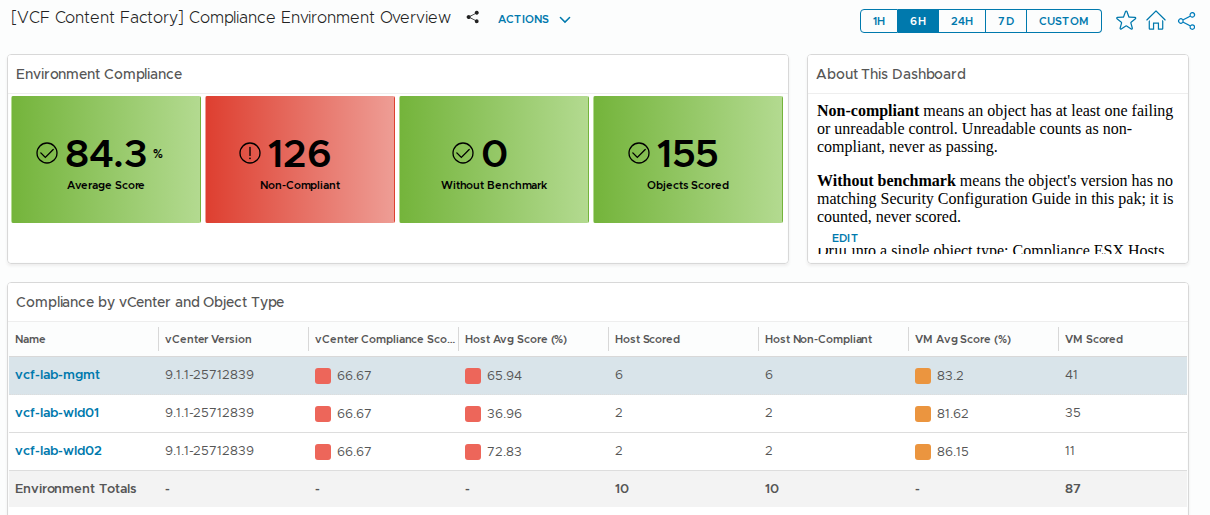
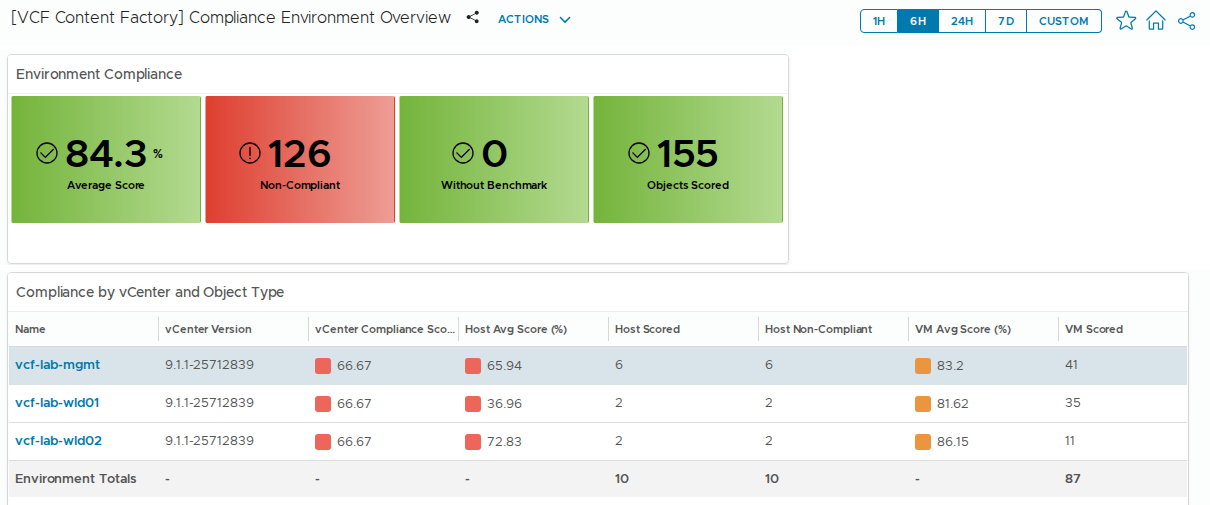
docs: review fixes: tested TLS guidance, per-feature vCenter privileges, 9.x menu paths, known issues
- TLS: say what works today (Allow Insecure for private-CA vCenters,
  address vCenter by its certificate name, see #8); drop the unproven
  import-the-CA advice until the accept-certificate hook ships.
- Permissions: esxcli host checks likely need Host > CIM > CIM
  interaction (documented by VMware, unproven with a scoped account);
  Read-only statements made conditional on the appliance setting.
- Menu paths verified on VCF Ops 9.x: Administration > Integrations >
  Repository / Accounts.
- README: Known issues (#15, #30, #31, #32); score claims qualified;
  links to REFERENCE.md and the inventory tree; hero image no longer
  shows the #34 overlap.
- data-reference.md: UI field names, no lab-specific notes.
- building.md: working curl instructions, in-factory build command,
  list formatting.
- REFERENCE.md points at docs/data-reference.md.

diff --git a/docs/installing.md b/docs/installing.md
@@ -8,7 +8,8 @@
   on **TCP 443** (vSphere SOAP / vim25 and the vCenter VAMI REST
   endpoints).
 - A **vCenter account** for the adapter to authenticate with (vCenter SSO
-  credentials). The account needs **read-only** access — the adapter only
+  credentials). With **Read vCenter appliance settings** off (the
+  default) it needs read access only; see Permissions Required. The adapter only
   reads configuration; it performs no writes or remediation.
 - One or more **compliance benchmark profiles**. The pack bundles the
   VMware Security Configuration Guide (SCG) 6.7, 7.0, 8.0, 9.0, and 9.1
@@ -34,7 +35,7 @@ What the vCenter account needs depends on that one setting:
 
 | Read vCenter appliance settings | vCenter account needs |
 |---|---|
-| Off (default) | The built-in **Read-only** role at the vCenter root, propagated to children. This covers the inventory and every host, VM, cluster and switch read. The appliance controls are reported for manual review. |
+| Off (default) | The built-in **Read-only** role at the vCenter root, propagated to children, for the inventory and the VM, cluster and switch reads. The host checks that run esxcli through vCenter (SSH, shell, secure boot, TPM, log settings) most likely also need **Host > CIM > CIM interaction** on the hosts (or a folder or cluster above them): this is the privilege VMware documents for esxcli over vCenter, but it has only been proven with a full administrator account so far. Without it those controls read as unreadable, never as passing. The appliance controls are reported for manual review. |
 | On | The above, **plus** membership of the vsphere.local SSO group `SystemConfiguration.Administrators`. vCenter has no read-only role for the appliance API, and this group can also change appliance settings. The pack itself only reads. |
 
 No remediation privileges are ever required: the pack writes nothing to
@@ -65,19 +66,25 @@ The collector log says which one is in use when the adapter starts.
 The Suite API push to VCF Operations is **ambient** (local, on the
 collector) and requires no additional outbound network configuration.
 
-## TLS to vCenter — certificate trust
+## TLS to vCenter: certificate trust
 
 Since build 50 the adapter **validates the vCenter certificate against the
-platform trust store by default** (strict TLS). You have two options:
+platform trust store by default** (strict TLS). Click **Validate
+Connection** with `allowInsecure` left at its default:
 
-1. **Recommended — import the vCenter certificate** into the VCF
-   Operations platform trust store so the default strict-TLS path
-   succeeds. Leave `allowInsecure` unset (or `false`).
-2. **Opt out — set `allowInsecure=true`** on the adapter instance to
-   disable certificate validation (trust-all). Only the literal string
-   `true` opts in; any other value, blank, or absent keeps strict
-   validation. The adapter logs a WARN at configure time when
-   `allowInsecure=true`.
+1. **If validation succeeds**, the certificate is already trusted.
+   Nothing more to do.
+2. **If it fails with a certificate error** (for example
+   `certificate_unknown` or "Unable to construct a valid chain"), set
+   `allowInsecure=true` for now. Importing the CA under Fleet Management >
+   Certificates has not been shown to help, and the Validate Connection
+   dialog does not yet offer to accept the certificate (framework work in
+   progress). `allowInsecure=true` disables certificate validation
+   (trust-all) for this adapter instance. Only the literal string `true`
+   opts in; any other value, blank, or absent keeps strict validation.
+   The adapter logs a WARN at configure time when it is set.
+
+Either way, enter vCenter by the name on its certificate, not its IP.
 
 > **Upgrade note:** an instance pointed at a vCenter whose certificate is
 > not in the platform trust store must either import the certificate or
@@ -97,18 +104,19 @@ for:
 | Custom Profile CSV Path (required if profile is Custom) | `custom_profile_path` | No | — | Filesystem path on the collector to an SCG-format CSV. Required only when the profile is `Custom`. |
 | Read vCenter appliance settings | `read_appliance_settings` | No | false | Off: the vCenter appliance (VAMI) controls are manual review. On: they are read and scored; the account must be in the vsphere.local SSO group `SystemConfiguration.Administrators`, which also grants appliance write access (there is no read-only appliance role). Instances created before build 74 have no stored value and use the default. |
 | Allow Insecure SSL (true to disable cert validation; default false = validate against platform trust store) | `allowInsecure` | No | false | `true` disables vCenter certificate validation. See TLS section above. |
-| Username | `username` | Yes | — | vCenter account (SSO). Read-only access. |
+| Username | `username` | Yes | — | vCenter account (SSO). Privileges depend on Read vCenter appliance settings; see Permissions Required. |
 | Password | `password` | Yes | — | vCenter account password (masked). |
 
 ## Step-by-Step Installation
 
-1. Install the `.pak` file via **Administration > Solutions > Add**.
-2. After installation, navigate to **Data Sources > Integrations > Accounts**.
+1. Install the `.pak` file via **Administration > Integrations > Repository > Add**.
+2. After installation, open **Administration > Integrations > Accounts**.
 3. Click **Add Account** and select **VCF Content Factory Compliance**.
 4. Fill in the configuration fields above. Choose a bundled profile, or
    `Custom` with a CSV path staged on the collector.
-5. Resolve TLS: import the vCenter certificate (recommended) or set
-   `allowInsecure=true`.
+5. Resolve TLS: for a private-CA or self-signed vCenter, set
+   `allowInsecure=true` (see the TLS section). Enter vCenter by the name
+   on its certificate, not its IP.
 6. Click **Validate Connection**, then **Add**.
 7. On the first collection cycle the adapter discovers its Compliance
    World and begins pushing results onto the existing VMWARE hosts, VMs,
@@ -119,23 +127,23 @@ for:
    Compliance Objects Scored, Compliance Non-Compliant Objects, Compliance
    Objects Without Benchmark and Compliance Average Score. Without this
    the Environment Overview's score tiles and trend stay empty. Whether
-   the pak import already enables them is unconfirmed (to be checked at
-   the devel install); check and enable if needed.
+   the pak import already enables them is unconfirmed; check and enable
+   if needed.
 9. Open **[VCF Content Factory] Compliance Environment Overview**. The
    four bundled dashboards:
 
 | Dashboard | What it is for |
 |---|---|
 | [VCF Content Factory] Compliance Environment Overview | The landing page: environment score, non-compliant objects and objects without a benchmark, compliance by vCenter and object type, objects per SCG version, the score trend, and open compliance alerts. |
-| [VCF Content Factory] Compliance ESX Hosts | Pick a scope (vSphere World or one vCenter), see its hosts worst first with score and applied SCG, select a host to see its failing controls and their runbooks. |
+| [VCF Content Factory] Compliance ESX Hosts | Pick a scope (vSphere World or one vCenter), see its hosts worst first with score and applied SCG, select a host to see its failing controls and their runbooks (that panel is currently empty, issue #30). |
 | [VCF Content Factory] Compliance VMs | The same flow for VMs, built for thousands of objects (sorted list and totals, no heatmap). |
 | [VCF Content Factory] Compliance vCenter & Networking | One page for the low-count kinds: vCenter, cluster, distributed switch and distributed portgroup lists, worst first, with the selected object's failing controls. |
 
 ## Troubleshooting
 
 - **vCenter SOAP fails with a TLS validation error** — the vCenter
-  certificate is not trusted. Import it into the platform trust store, or
-  set `allowInsecure=true`. See the TLS section.
+  certificate is not trusted. Set `allowInsecure=true` for now. See the
+  TLS section.
 - **"Compliance data not collected" alert, or a host scoring 0** (build
   63): the adapter could not read some or all of the object's settings,
   and unreadable settings count as failing. A disconnected or

diff --git a/README.md b/README.md
@@ -17,8 +17,10 @@ The pack only reads. It never changes a setting.
 
 ## What it does for you
 
-**Puts a score on everything you already monitor.** Every host, VM,
-vCenter, cluster, switch and portgroup gets a score from 0 to 100. Open
+**Puts a score on everything you already monitor.** Hosts, VMs,
+vCenters, vSAN clusters, switches and portgroups each get a score from 0
+to 100 (an object with no guide for its version, or a cluster without
+vSAN, has nothing to score and shows none). Open
 any of them in VCF Operations, go to All Metrics, then VCF-CF Compliance,
 and you'll see each control with the value the SCG expects next to the
 value that's actually set. You don't have to learn a separate object tree
@@ -42,7 +44,8 @@ first.
 because of permissions, connectivity or an unsupported read method, that
 setting counts against the score instead of being quietly treated as
 fine. A "Compliance data not collected" alert tells you which object is
-affected and what to look at. A missing reading never shows up as a pass.
+affected and what to look at. (One known gap: a setting that is simply
+absent is currently skipped rather than failed; see Known issues.)
 
 ## The dashboards
 
@@ -53,7 +56,7 @@ with three vCenters.
 objects are non-compliant, how many have no guide for their version, and
 how each vCenter is doing broken down by object type. Further down it
 shows how many objects are on each SCG version, the score trend and the
-open compliance alerts.
+open compliance alerts (both of those have open bugs; see Known issues).
 
 **ESX Hosts** starts with a scope. Pick a vCenter, or all of vSphere,
 and its hosts are listed worst first with their version, the guide
@@ -75,13 +78,18 @@ one page: vCenter, clusters, distributed switches and portgroups.
 
 1. Download the latest `.pak` from this repo's
    [Releases](https://github.com/sentania-labs/vcf-content-factory-sdk-compliance/releases).
-2. In VCF Operations, install it from **Administration > Solutions > Add**.
+2. In VCF Operations, install it from **Administration > Integrations >
+   Repository > Add**.
 3. Add an account for **VCF Content Factory Compliance** under
-   **Data Sources > Integrations > Accounts**. Give it your vCenter
-   address and a vCenter account with read access, and leave the
-   compliance profile at `Auto (by version)`.
-4. Sort out the vCenter certificate. Either trust it in VCF Operations
-   (recommended) or turn on Allow Insecure SSL.
+   **Administration > Integrations > Accounts > Add**. Give it your
+   vCenter address, using the name on the vCenter's certificate rather
+   than its IP, and a vCenter account with read access (see
+   [installing.md](docs/installing.md) for the exact privileges). Leave
+   the compliance profile at `Auto (by version)`.
+4. Click **Validate Connection**. If it fails with a certificate error
+   (common with a private CA or a self-signed vCenter certificate), set
+   **Allow Insecure SSL** to `true` for now. A version that lets you
+   accept the certificate from that dialog instead is in progress.
 5. Enable the four compliance super metrics in the policy that applies to
    vSphere World. The overview's score tiles and trend use them.
 6. Wait. The pack collects once an hour, and the per-control alerts need
@@ -109,7 +117,29 @@ The full walkthrough, with permissions, ports and troubleshooting, is in
   `profiles/UNAUDITED_CONTROLS.md`.
 - **Upgrades keep your settings.** An existing account keeps the
   compliance profile it was set to, even if a new version changes the
-  default.
+  default. An account from before version-aware scoring with no stored
+  profile keeps scoring against SCG 8.0 until you set it to
+  `Auto (by version)`.
+
+## Known issues
+
+- [#30](https://github.com/sentania-labs/vcf-content-factory-sdk-compliance/issues/30):
+  the "Failing Controls on Selected ..." panels on the ESX Hosts, VMs and
+  vCenter & Networking dashboards are empty. Until it's fixed, open the
+  object and look under All Metrics, VCF-CF Compliance.
+- [#31](https://github.com/sentania-labs/vcf-content-factory-sdk-compliance/issues/31):
+  the Open Compliance Alerts widget on the overview is empty. The alerts
+  themselves are raised; see them in the Alerts list.
+- [#32](https://github.com/sentania-labs/vcf-content-factory-sdk-compliance/issues/32):
+  the Objects by SCG Version table only shows the 6.7, 7.0 and 8.0
+  columns.
+- [#15](https://github.com/sentania-labs/vcf-content-factory-sdk-compliance/issues/15):
+  a few VM settings that are absent (never set) are skipped instead of
+  being checked against the guide's default, which can flatter VM
+  scores.
+
+All open issues are on the
+[issue list](https://github.com/sentania-labs/vcf-content-factory-sdk-compliance/issues).
 
 ## More detail
 
@@ -119,6 +149,9 @@ The full walkthrough, with permissions, ports and troubleshooting, is in
   picked, the full list of metrics and properties, and the alert
   definitions.
 - [Installing and configuring](docs/installing.md)
+- [Generated reference](REFERENCE.md) and the
+  [inventory tree](docs/inventory-tree.md) (the pack's own object types
+  and settings, generated from `describe.xml`)
 - [Building from source](docs/building.md)
 - [Custom profile format](CANONICAL_SCHEMA.md)
 - [Changelog](CHANGELOG.md)

diff --git a/docs/data-reference.md b/docs/data-reference.md
@@ -9,20 +9,18 @@ inside see [overview.md](overview.md).
 
 | Field | Required | Default | Description |
 |---|---|---|---|
-| vCenter Host | Yes | - | vCenter FQDN or IP |
+| vCenter Host / IP | Yes | - | vCenter FQDN or IP |
 | Username | Yes | - | vCenter SSO credentials |
 | Password | Yes | - | vCenter SSO credentials |
-| Benchmark Profile | Yes | Auto (by version) | Auto (by version), VMware_SCG_6.7, VMware_SCG_7.0, VMware_SCG_8.0, VMware_SCG_9.0, VMware_SCG_9.1, or Custom |
-| Custom Profile Path | No | - | Filesystem path to CSV if Custom |
+| Compliance Profile | Yes | Auto (by version) | Auto (by version), VMware_SCG_6.7, VMware_SCG_7.0, VMware_SCG_8.0, VMware_SCG_9.0, VMware_SCG_9.1, or Custom |
+| Custom Profile CSV Path | No | - | Filesystem path to CSV if Custom |
 | Allow Insecure SSL | No | false | Accept self-signed certificates |
 | Read vCenter appliance settings | No | false | Read the vCenter appliance (VAMI) settings (SSH, NTP, syslog, TLS profile, root password expiry, FIPS). Off: those controls are reported for manual review. On: needs the collection account in the vsphere.local SSO group `SystemConfiguration.Administrators`, which also grants appliance write access (no read-only appliance role exists) |
 
 **Existing instances keep their stored profile on upgrade.** VCF Ops
 stores the configured value on each adapter instance, and a pak upgrade
-does not rewrite it (the new default applies to new instances only). The
-devel instances, for example, are stored as fixed `VMware_SCG_9.1` and keep
-scoring every object against SCG 9.1 until someone edits them to
-`Auto (by version)`. An instance with no stored value keeps the pre-v3
+does not rewrite it (the new default applies to new instances only). An instance stored as a fixed `VMware_SCG_9.1`, for example, keeps scoring
+every object against SCG 9.1 until someone edits it to `Auto (by version)`. An instance with no stored value keeps the pre-v3
 fallback, SCG 8.0.
 
 ## Benchmark selection
@@ -132,7 +130,7 @@ The pak installs four dashboards (plus their eight views):
 | Dashboard | What it is for |
 |---|---|
 | [VCF Content Factory] Compliance Environment Overview | The landing page: environment score, non-compliant objects and objects without a benchmark, compliance by vCenter and object type, objects per SCG version, the score trend, and open compliance alerts. |
-| [VCF Content Factory] Compliance ESX Hosts | Pick a scope (vSphere World or one vCenter), see its hosts worst first with score and applied SCG, select a host to see its failing controls and their runbooks. |
+| [VCF Content Factory] Compliance ESX Hosts | Pick a scope (vSphere World or one vCenter), see its hosts worst first with score and applied SCG, select a host to see its failing controls and their runbooks (that panel is currently empty, issue #30). |
 | [VCF Content Factory] Compliance VMs | The same flow for VMs, built for thousands of objects (sorted list and totals, no heatmap). |
 | [VCF Content Factory] Compliance vCenter & Networking | One page for the low-count kinds: vCenter, cluster, distributed switch and distributed portgroup lists, worst first, with the selected object's failing controls. |
 
@@ -144,8 +142,7 @@ policy active on vSphere World** (in the policy editor, Metrics and
 Properties, filter on "Compliance"; the exact menu path differs between
 Ops 9.0 and 9.1),
 or those tiles and the trend stay empty. Whether the pak import enables
-them automatically is **unconfirmed**; it will be checked at the devel
-install. The other widgets read adapter data directly and need no
+them automatically is **unconfirmed**; check and enable if needed. The other widgets read adapter data directly and need no
 enablement. Compliance Average Score shows no data until the first v3
 collection cycle has scored something.
 

diff --git a/docs/building.md b/docs/building.md
@@ -31,8 +31,11 @@ Then, from the root of this repo:
 gh release download sdk-buildkit-v1 \
   --repo sentania-labs/vcf-content-factory \
   --pattern 'sdk-buildkit-*.tgz'
-# No gh? The asset is public: fetch it with curl instead:
-#   curl -sL https://github.com/sentania-labs/vcf-content-factory/releases/download/sdk-buildkit-v1/sdk-buildkit-v1.tgz -o sdk-buildkit-v1.tgz
+# No gh? The asset is public. Its file name carries the full version
+# (for example sdk-buildkit-1.0.10.tgz); look it up on the release page
+#   https://github.com/sentania-labs/vcf-content-factory/releases/tag/sdk-buildkit-v1
+# and fetch it with curl:
+#   curl -sLO https://github.com/sentania-labs/vcf-content-factory/releases/download/sdk-buildkit-v1/<asset-file-name>
 tar xzf sdk-buildkit-*.tgz
 
 # 2. Point the kit at your SDK jar and build
@@ -48,22 +51,26 @@ building paks.
 
 **Dev builds vs releases.** Anything you build this way is a *dev
 build*. The **official** artifact for this repo is the one its own CI
-builds and attaches to a GitHub Release when a `v*` tag is pushed -
-deterministic, no developer machine in the path.
+builds and attaches to a GitHub Release when a `v*` tag is pushed:
+deterministic, with no developer machine in the path.
+
+**Inside a VCF Content Factory checkout** you can skip the toolchain
+download and build with the factory's own CLI:
+`python3 -m vcfcf_managementpacks build-sdk content/sdk-adapters/compliance`.
 
 **If you fork this repo**, the CI workflow
 (`.github/workflows/build-pak-on-tag.yml`) needs one adjustment
 before your own `v*` tags will build (it already runs on GitHub-hosted
 `ubuntu-latest`, so no runner change is needed).
 
-**SDK jar sourcing**: the upstream workflow fetches the Broadcom
-   jar from a private repo via an `SDK_RUNTIME_SSH_KEY` deploy-key
-   secret you won't have. Replace that step with your own source -
-   e.g. store the appliance-extracted jar in your own private repo or
-   an Actions secret/artifact store. Then **also update the
-   `--sdk-jar` argument** on the `build-sdk` line of the workflow to
-   point at wherever your replacement step puts the jar. The explicit
-   `--sdk-jar` flag overrides `VCFCF_SDK_JAR`, so setting the env var
-   alone is not enough: if you leave `--sdk-jar _sdk_runtime/...` in
-   place the build will look for the upstream path and fail. Do **not**
-   commit the jar to a public repo (no redistribution).
+**SDK jar sourcing**: the upstream workflow fetches the Broadcom jar
+from a private repo via an `SDK_RUNTIME_SSH_KEY` deploy-key secret you
+won't have. Replace that step with your own source, for example the
+appliance-extracted jar in your own private repo or an Actions
+secret/artifact store. Then **also update the `--sdk-jar` argument** on
+the `build-sdk` line of the workflow to point at wherever your
+replacement step puts the jar. The explicit `--sdk-jar` flag overrides
+`VCFCF_SDK_JAR`, so setting the env var alone is not enough: if you
+leave `--sdk-jar _sdk_runtime/...` in place the build will look for the
+upstream path and fail. Do **not** commit the jar to a public repo (no
+redistribution).

diff --git a/REFERENCE.md b/REFERENCE.md
@@ -45,5 +45,5 @@ Generated from `describe.xml` and `resources.properties`.
 
 The keys the adapter pushes onto VMWARE resources (per control, per
 object, and the per-vCenter rollup) are not declared in describe.xml;
-they are listed in the repo README under "Keys pushed onto VMWARE
-resources".
+they are listed in [docs/data-reference.md](docs/data-reference.md)
+under "Keys pushed onto VMWARE resources".
